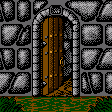
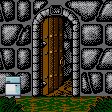
add the fridge

Changed region(s): [[0.0268, 0.6696, 0.1875, 0.8839]]

diff --git a/src/store/initialState/index.js b/src/store/initialState/index.js
@@ -214,6 +214,37 @@ const doors = {
     openText: 'Opened Valencia Tavern',
     unlockText: 'Hell yeah! Let\'s do this! Woo!!!'
   },
+  15: {
+    name: 'fridge',
+    closedImg: 'fridgeSmall',
+    position: {
+      left: 5,
+      top: 76,
+      width: 16,
+      height: 23
+    },
+    mapPosition: {
+      x: 0,
+      y: 3
+    },
+    description: 'A handy little fridge',
+    closedText: 'With all your might, you yank on the handle. But it won\'t budge - you are far too weak to open this fridge.',
+    openText: 'Eating Garfield gave you the strength you needed to open this bad boy. Good work!',
+    dir: 'DOWN',
+    dest: 14,
+    state: 'CLOSED',
+    openCondition: 'GARFIELD'
+  },
+  16: {
+    mapPosition: {
+      x: 2,
+      y: 3
+    },
+    description: 'Back to the outside',
+    dir: 'UP',
+    dest: 0,
+    state: 'OPEN'
+  },
 };
 
 const items = {
@@ -386,7 +417,8 @@ const items = {
       width: 68,
       height: 55
     },
-    onEat: 'With a somber sense of pride and purpose, you devour the animal, as if to put it out of its misery.'
+    onEat: 'With a somber sense of pride and purpose, you devour the animal, as if to put it out of its misery.',
+    eatEffect: 'GARFIELD'
   },
 };
 
@@ -553,14 +585,14 @@ const scenery = {
     movesTo: 13,
     moveDir: 'FORWARD',
     moveOn: 'LOOK',
-  },
+  }
 };
 
 const rooms = {
   0: {
     img: 'room0',
     description: 'It\'s the entrance to Birthay Castle. You can faintly hear the sound of several full grown adults chanting inside.',
-    doors: [0],
+    doors: [0, 15],
     items: [0],
     scenery: [0]
   },
@@ -659,6 +691,13 @@ const rooms = {
     doors: [13],
     items: [],
     scenery: [] 
+  },
+  14: {
+    img: 'fridgeLarge',
+    description: 'A smattering of items can be found here.',
+    doors: [16],
+    items: [],
+    scenery: [] 
   }
 };
 
@@ -711,7 +750,9 @@ const images = {
   santos: null,
   bong: null,
   lockpick: null,
-  bed: null
+  bed: null,
+  fridgeSmall: null,
+  fridgeLarge: null
 };
 
 const playerState = {
@@ -730,7 +771,7 @@ const gameState = {
   rooms,
   scenery,
   images,
-  flags: new Set()
+  flags: new Set(['GARFIELD'])
 };
 
 const transition = {

diff --git a/src/store/reducers/verbReducers/openReducer.js b/src/store/reducers/verbReducers/openReducer.js
@@ -1,19 +1,23 @@
 import { withText, setValue, keepState } from '../utils';
 import { compose } from 'lodash/fp';
 
-const doorReducer = door => {
+const doorReducer = door => state => {
   switch (door.state) {
     case 'CLOSED':
-      return compose(
-        withText(door.openText),
-        setValue(`gameState.doors.${door.id}.state`)('OPEN'),
-        setValue(`gameState.doors.${door.id}.hidden`)(false)
-      );
+      if (!door.openCondition || state.gameState.flags.has(door.openCondition)) {
+        return compose(
+          withText(door.openText),
+          setValue(`gameState.doors.${door.id}.state`)('OPEN'),
+          setValue(`gameState.doors.${door.id}.hidden`)(false)
+        )(state);
+      } else {
+        return withText(door.closedText)(state);
+      }
     case 'LOCKED':
-      return withText('The door is locked.');
+      return withText('The door is locked.')(state);
     case 'OPEN':
     default:
-      return withText('It\'s already open!');
+      return withText('It\'s already open!')(state);
   }
 };
 

diff --git a/src/store/reducers/verbReducers/eatReducer.js b/src/store/reducers/verbReducers/eatReducer.js
@@ -19,7 +19,13 @@ const eatReducer = object => state => {
     updateValue(`gameState.rooms.${room}.items`)(items => {
       return items.filter(id => id !== object.id);
     }),
-    withText(object.onEat)
+    updateValue('gameState.flags')(flags => {
+      if (object.eatEffect) {
+        flags.add(object.eatEffect);
+      }
+      return flags;
+    }),
+    withText(object.onEat),
   )(state);
 };
 

diff --git a/src/images/index.js b/src/images/index.js
@@ -47,8 +47,12 @@ import bong from './bong.png';
 import lockpick from './lockpick.png';
 import motorcycle from './motorcycle.png';
 import bed from './bed.png';
+import fridgeSmall from './fridge-small.png';
+import fridgeLarge from './fridge-large.png';
 
 export default {
+  fridgeSmall,
+  fridgeLarge,
   motorcycle,
   bed,
   bong,
